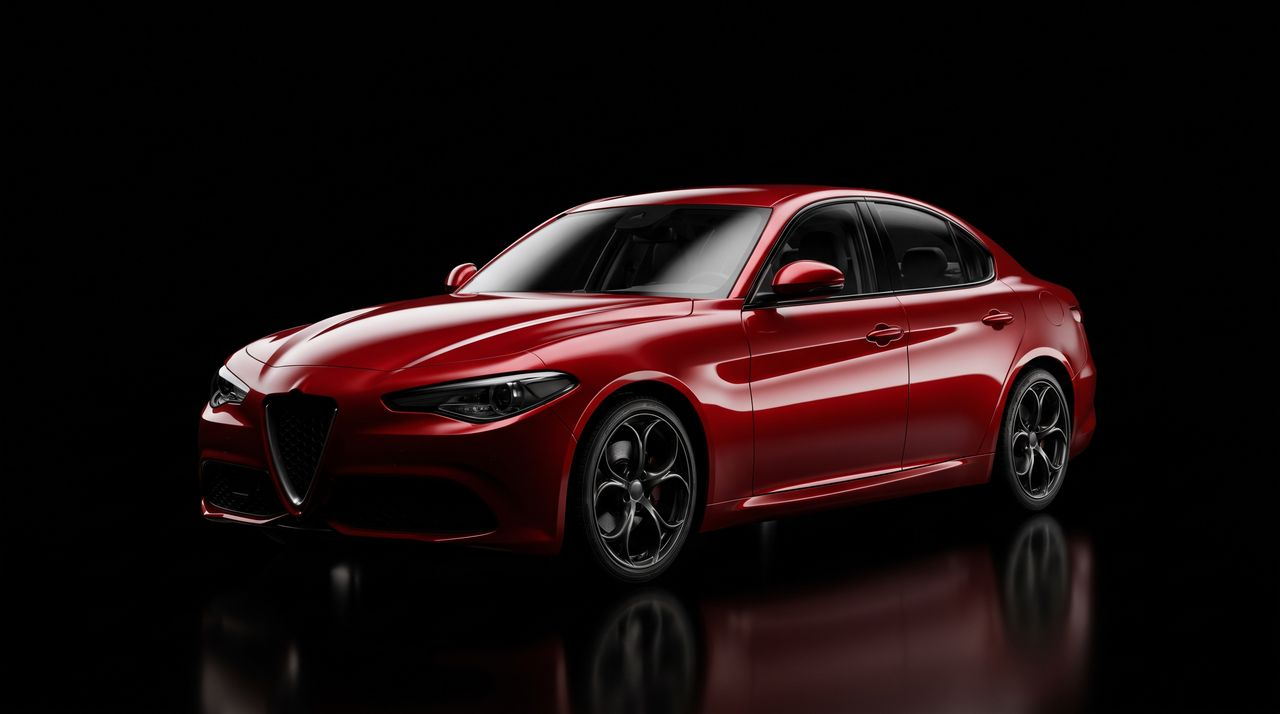
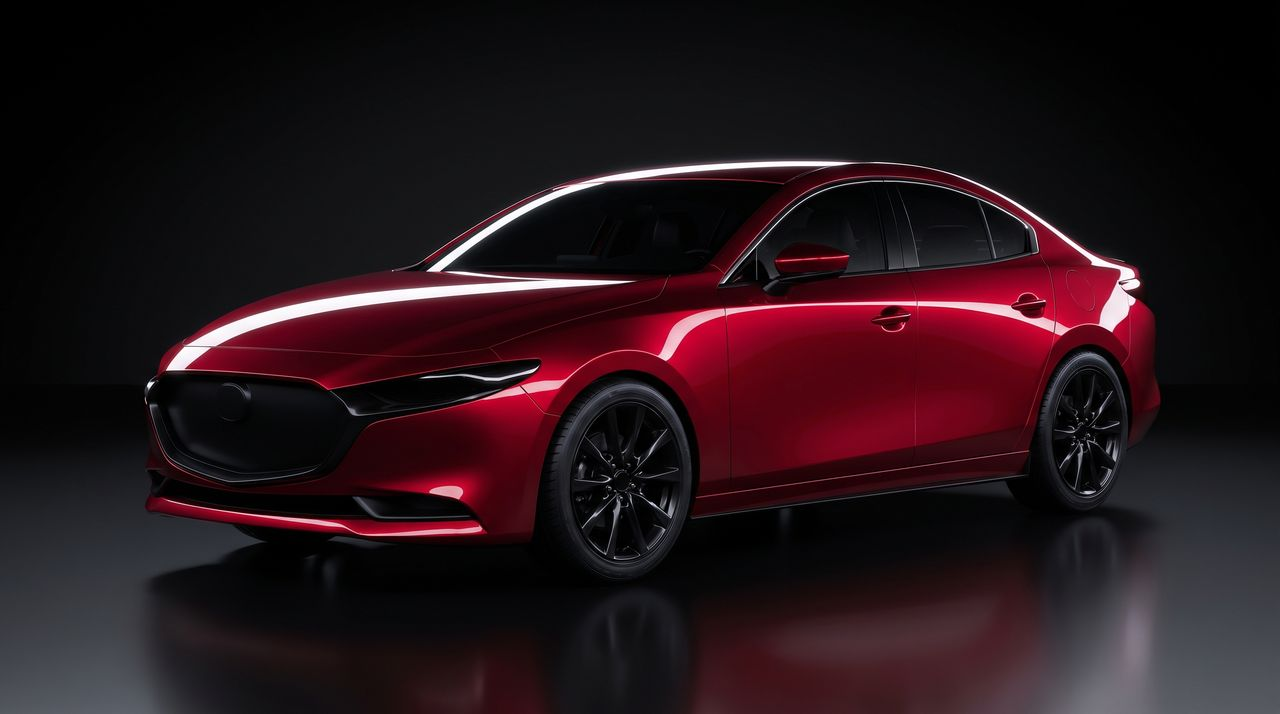
feat(bilal): фото в карточках «Was wir kaufen», нейтральный красный седан
Добавлены снимки Unfallwagen, Gebrauchtwagen, Lackschaden — вместо
заглушек «Bild folgt». Красный седан перегенерирован: прежний кадр
имел узнаваемую решётку конкретной марки, это Markenrecht.
Исправлены пропорции рендера — высота бралась из атрибута и сплющивала кадр.

diff --git a/bilal/fritz/index.html b/bilal/fritz/index.html
@@ -1260,6 +1260,18 @@ section[id], footer[id]{ scroll-margin-top: calc(var(--hd-h, 74px) + 12px); }
   .buy-card__more svg { transition: none; }
 }
 
+/* Echte Fotos in den Karten und im Foto-Block: absolut im Medien-Rahmen,
+   damit das Seitenverhältnis 16:9 bzw. das der Fotoleiste erhalten bleibt. */
+.buy-card__media picture,
+.about-photo picture{position:absolute;inset:0;display:block}
+.buy-card__media img,
+.about-photo img{width:100%;height:100%;object-fit:cover;display:block}
+.buy-card__media img{filter:grayscale(.28) contrast(1.03)}
+.buy-card:hover .buy-card__media img{filter:none;transition:filter .3s ease}
+@media (prefers-reduced-motion:reduce){
+  .buy-card:hover .buy-card__media img{transition:none}
+}
+
 /* ---- part 03 ---- */
 /* ============================================================
    FRITZ AUTOANKAUF — ЧАСТЬ 3/3
@@ -1834,6 +1846,10 @@ section[id], footer[id]{ scroll-margin-top: calc(var(--hd-h, 74px) + 12px); }
   .form-input,
   .form-textarea{ transition: none }
 }
+
+/* Foto statt Inline-SVG: Höhe aus dem Attribut würde das Bild stauchen */
+.partner-figure picture{display:block}
+.partner-figure img{width:100%;height:auto;display:block}
 </style>
 </head>
 <body>
@@ -2240,17 +2256,11 @@ section[id], footer[id]{ scroll-margin-top: calc(var(--hd-h, 74px) + 12px); }
            Werkstatthof, kühles Tageslicht. Оригинал: страница /unfallwagen/. -->
       <article class="buy-card">
         <div class="buy-card__media">
-          <div class="buy-card__slot">
-            <svg class="buy-card__art" viewBox="0 0 160 90" fill="none" aria-hidden="true">
-              <path d="M18 66h124" stroke="currentColor" stroke-width="2" stroke-linecap="round"/>
-              <path d="M26 66V50l12-16h44l14 16h20a8 8 0 0 1 8 8v8" stroke="currentColor" stroke-width="2.5" stroke-linejoin="round"/>
-              <path d="M40 50h40" stroke="currentColor" stroke-width="2"/>
-              <circle cx="46" cy="66" r="8" stroke="currentColor" stroke-width="2.5"/>
-              <circle cx="108" cy="66" r="8" stroke="currentColor" stroke-width="2.5"/>
-              <path d="m112 28 6 8-9 4 7 8" stroke="currentColor" stroke-width="2.5" stroke-linecap="round" stroke-linejoin="round"/>
-            </svg>
-          </div>
-          <span class="buy-card__note">Bild folgt</span>
+          <picture>
+            <source type="image/webp" media="(max-width:640px)" srcset="img/unfallwagen-828.webp">
+            <source type="image/webp" srcset="img/unfallwagen-1280.webp">
+            <img src="img/unfallwagen-1280.jpg" alt="Unfallwagen mit Frontschaden" width="1280" height="716" loading="lazy" decoding="async">
+          </picture>
         </div>
         <div class="buy-card__body">
           <h3 class="buy-card__title">Unfallwagen</h3>
@@ -2264,20 +2274,13 @@ section[id], footer[id]{ scroll-margin-top: calc(var(--hd-h, 74px) + 12px); }
         </div>
       </article>
 
-      <!-- IMAGE SLOT: Gebrauchtwagen — gepflegter Kombi in Seitenansicht
-           auf einem Händlerhof. Оригинал: страница /gebrauchtwagen/. -->
       <article class="buy-card">
         <div class="buy-card__media">
-          <div class="buy-card__slot">
-            <svg class="buy-card__art" viewBox="0 0 160 90" fill="none" aria-hidden="true">
-              <path d="M14 66h132" stroke="currentColor" stroke-width="2" stroke-linecap="round"/>
-              <path d="M24 66V48l14-16h52l16 16h20a8 8 0 0 1 8 8v10" stroke="currentColor" stroke-width="2.5" stroke-linejoin="round"/>
-              <path d="M40 48h48M64 32v16" stroke="currentColor" stroke-width="2"/>
-              <circle cx="48" cy="66" r="9" stroke="currentColor" stroke-width="2.5"/>
-              <circle cx="112" cy="66" r="9" stroke="currentColor" stroke-width="2.5"/>
-            </svg>
-          </div>
-          <span class="buy-card__note">Bild folgt</span>
+          <picture>
+            <source type="image/webp" media="(max-width:640px)" srcset="img/gebrauchtwagen-828.webp">
+            <source type="image/webp" srcset="img/gebrauchtwagen-1280.webp">
+            <img src="img/gebrauchtwagen-1280.jpg" alt="Gepflegter Gebrauchtwagen in Seitenansicht" width="1280" height="716" loading="lazy" decoding="async">
+          </picture>
         </div>
         <div class="buy-card__body">
           <h3 class="buy-card__title">Gebrauchtwagen</h3>
@@ -2291,19 +2294,13 @@ section[id], footer[id]{ scroll-margin-top: calc(var(--hd-h, 74px) + 12px); }
         </div>
       </article>
 
-      <!-- IMAGE SLOT: Lackschaden und Kratzer — Nahaufnahme einer zerkratzten
-           Fahrzeugtür mit Lackabrieb. Оригинал: /lackschaden-kratzern-farbabrieben/. -->
       <article class="buy-card">
         <div class="buy-card__media">
-          <div class="buy-card__slot">
-            <svg class="buy-card__art" viewBox="0 0 160 90" fill="none" aria-hidden="true">
-              <rect x="24" y="20" width="112" height="52" rx="8" stroke="currentColor" stroke-width="2.5"/>
-              <path d="M24 40h112" stroke="currentColor" stroke-width="2"/>
-              <circle cx="46" cy="56" r="5" stroke="currentColor" stroke-width="2"/>
-              <path d="m66 62 22-26M76 64l20-24M88 66l18-22" stroke="currentColor" stroke-width="2.5" stroke-linecap="round"/>
-            </svg>
-          </div>
-          <span class="buy-card__note">Bild folgt</span>
+          <picture>
+            <source type="image/webp" media="(max-width:640px)" srcset="img/lackschaden-828.webp">
+            <source type="image/webp" srcset="img/lackschaden-1280.webp">
+            <img src="img/lackschaden-1280.jpg" alt="Kratzer im Lack aus der Nähe" width="1280" height="716" loading="lazy" decoding="async">
+          </picture>
         </div>
         <div class="buy-card__body">
           <h3 class="buy-card__title">Lackschaden und Kratzer</h3>
